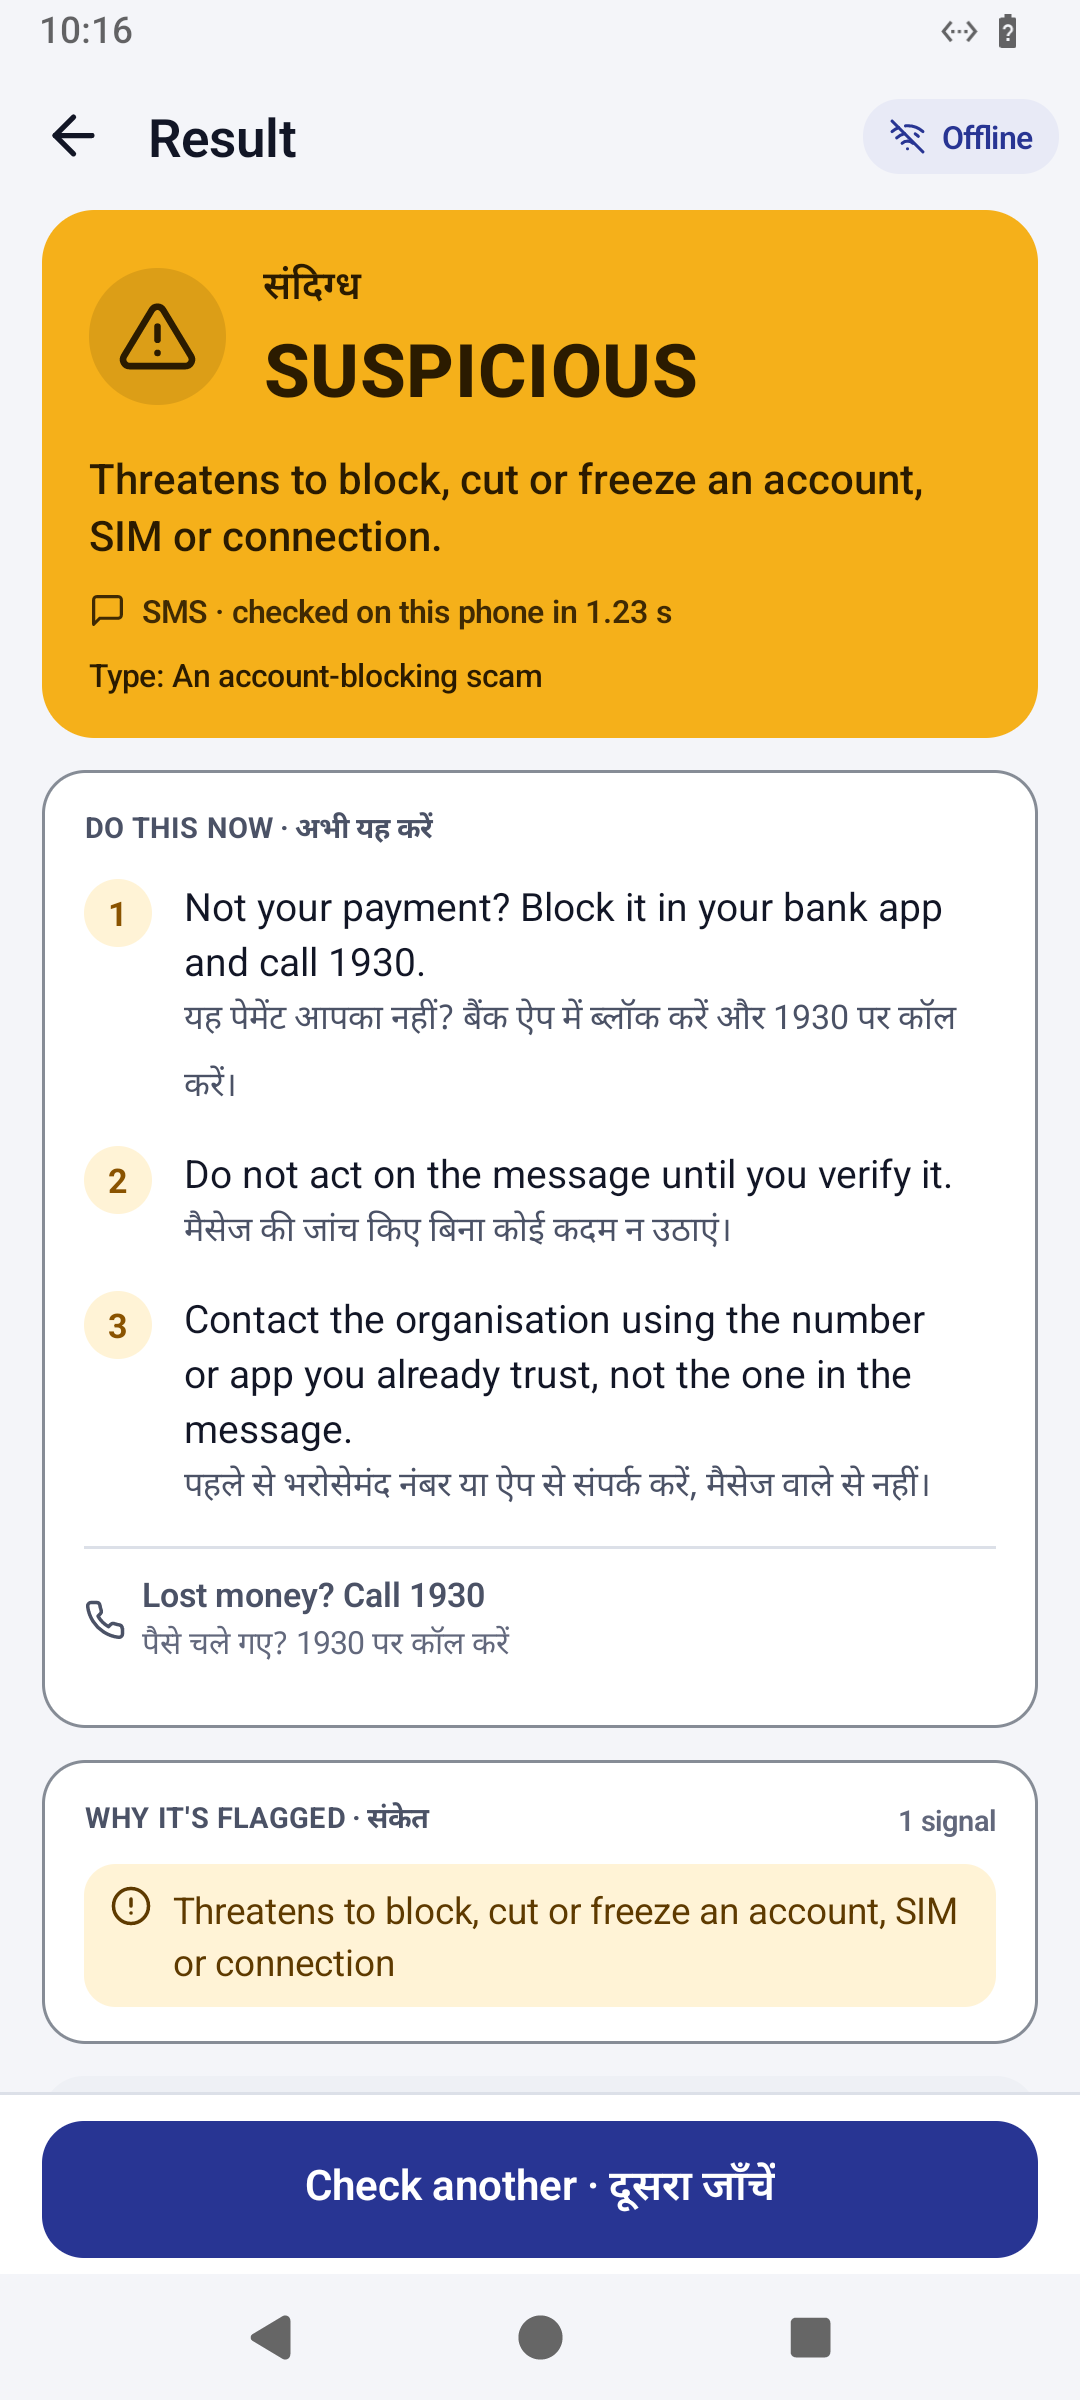
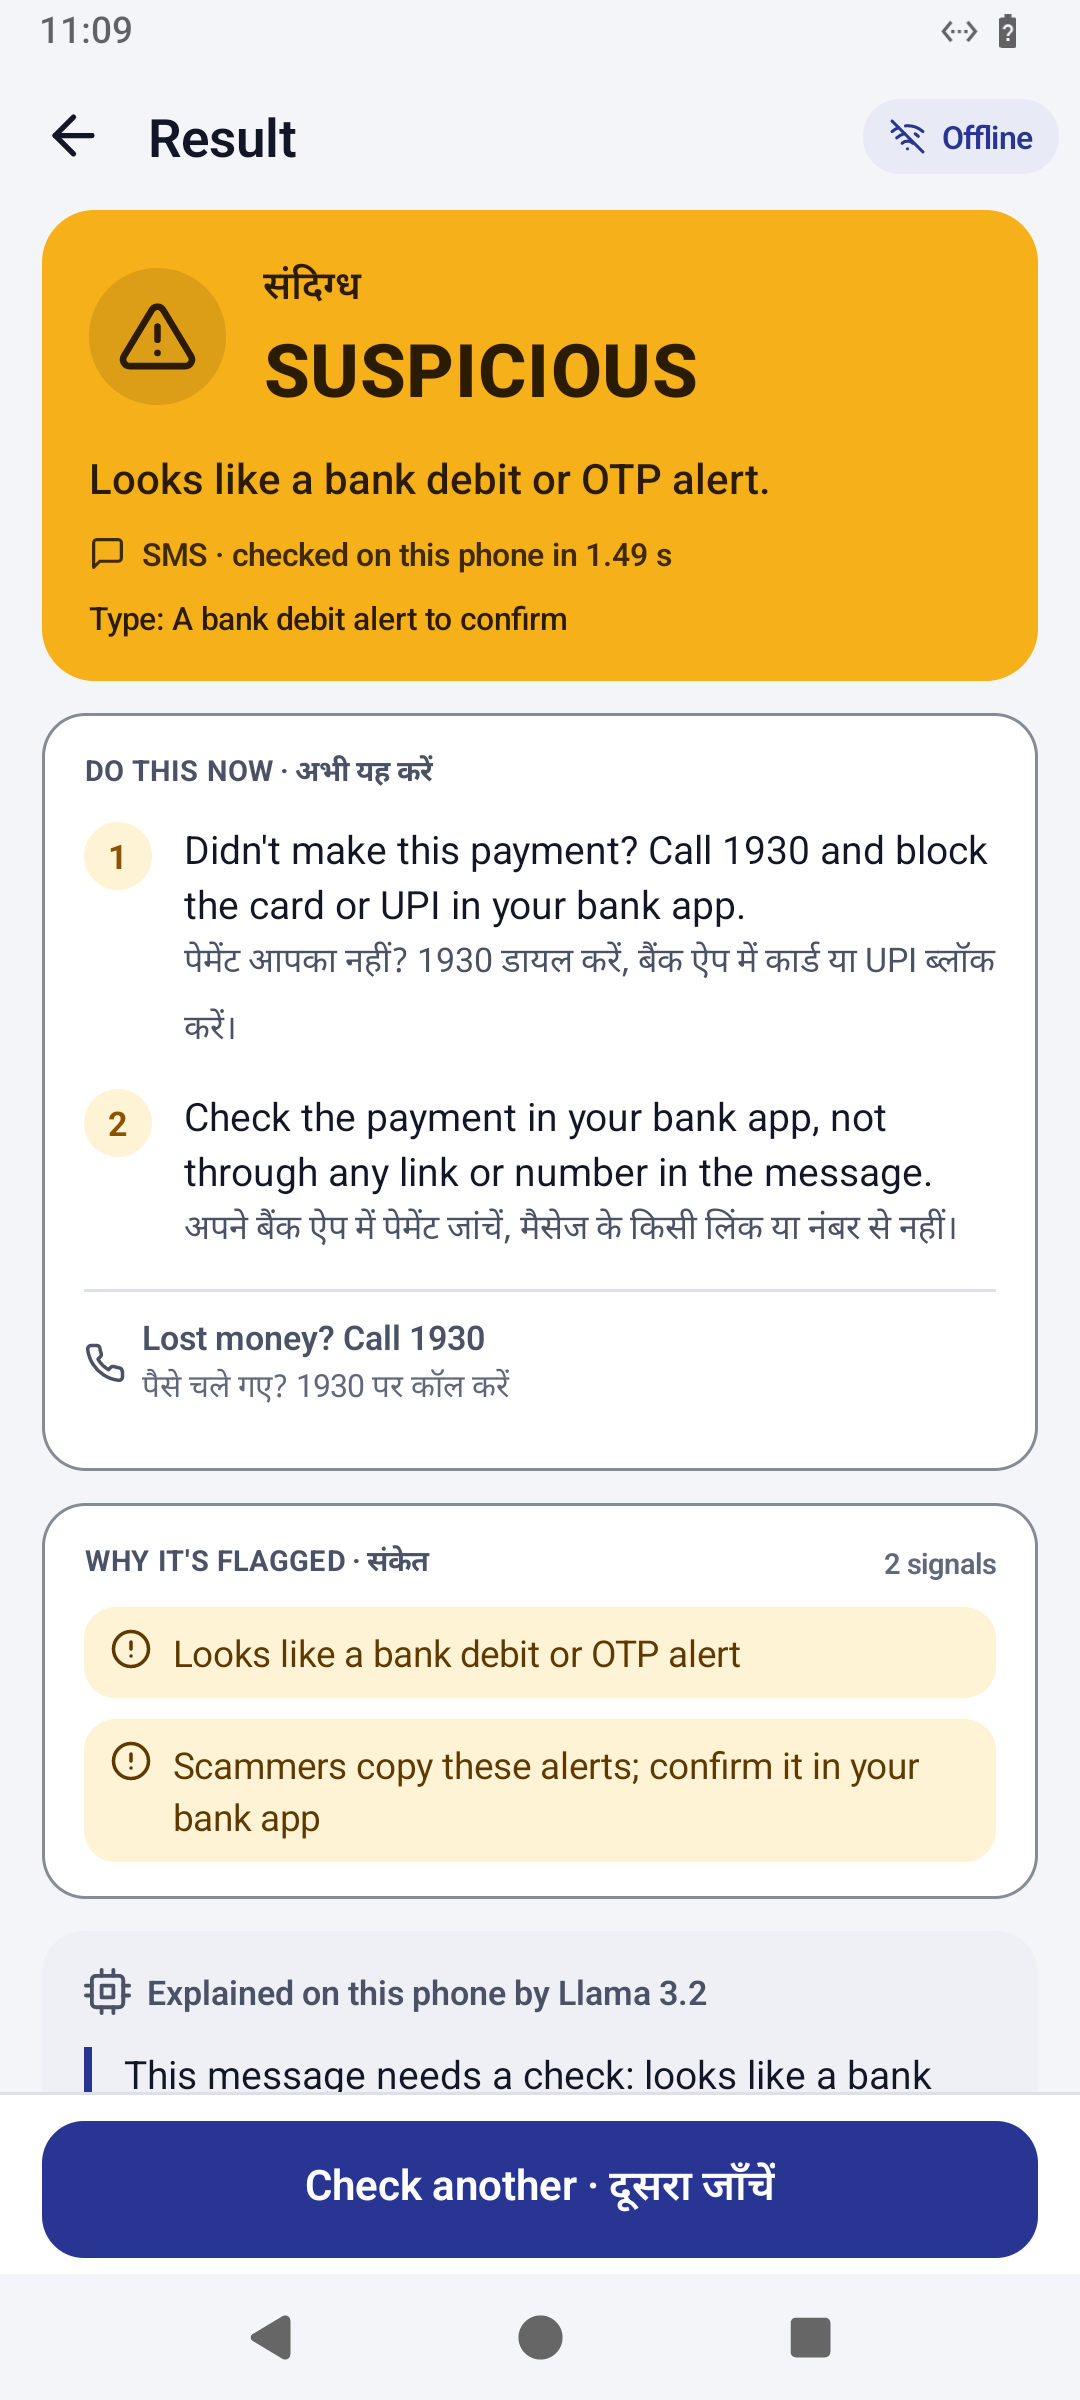
docs: final bank-alert wording and refreshed app screenshots

diff --git a/docs/phase1/report.md b/docs/phase1/report.md
@@ -76,7 +76,7 @@ The message layer combines TF-IDF and a logistic classifier with Indian-context 
 
 The app in `android/` ran the shipped detector and Llama 3.2 1B end to end on an Android 14 x86_64 emulator, using an x86_64 build and ExecuTorch Android 1.5.1. It used the same QLoRA `.pte` (SHA-256 `ab7b7ebf…`) as the Linux runner. The pictured KYC check took 274 ms in the detector. Emulator timings are labelled as x86, not Arm timings; a physical Arm phone run remains pending [S7].
 
-The result places the Hindi and English verdict first, followed by numbered scam-specific vetted steps with Hindi lines reviewed by Gemini 4 Neon. For scam messages and links before loss, “Report on Sanchar Saathi Chakshu” is primary and “Lost money? Call 1930” secondary; 1930 is primary when money is already gone, and cybercrime.gov.in is used for sextortion or extortion. Evidence follows, then the Llama card warns “AI-written and can be wrong. Follow the steps above.” On-device stats are collapsed by default. A genuine-looking bank debit alert is SUSPICIOUS and first advises “Not your payment? Block it in your bank app and call 1930.” A rule override does not clear a message as NO RISK when the model leans scam and the message offers another contact such as a link, number, chat handle or UPI ID.
+The result places the Hindi and English verdict first, followed by numbered scam-specific vetted steps with Hindi lines reviewed by Gemini 4 Neon. For scam messages and links before loss, “Report on Sanchar Saathi Chakshu” is primary and “Lost money? Call 1930” secondary; 1930 is primary when money is already gone, and cybercrime.gov.in is used for sextortion or extortion. Evidence follows, then the Llama card warns “AI-written and can be wrong. Follow the steps above.” On-device stats are collapsed by default. A genuine-looking bank debit alert is SUSPICIOUS, described as a bank alert that scammers copy, and first advises “Didn't make this payment? Call 1930 and block the card or UPI in your bank app.” A rule override does not clear a message as NO RISK when the model leans scam and the message offers another contact such as a link, number, chat handle or UPI ID.
 
 The app declares no `INTERNET` permission. “Prove it's offline” attempts HTTPS and displays the OS refusal only for a real permission error; the screenshot shows Android's `SecurityException`. Calls and browser visits use separate apps. Model files must be staged first. Mockups used Mobbin iOS references and Figma; Gemini 4 Neon reviewed UX and India-specific safety copy, and GPT-6.1 Terra wrote the app code [S7].
 

diff --git a/docs/phase1/demo-script.md b/docs/phase1/demo-script.md
@@ -12,7 +12,7 @@ This is a production plan, not evidence of a finished recording or physical-phon
 | 1:25–1:40 | Android 14 emulator (x86_64): select KYC scam SMS and show the actual Hindi and English verdict and numbered vetted steps with Hindi lines. |
 | 1:40–1:52 | Show “Report on Sanchar Saathi Chakshu” and “Lost money? Call 1930”. Explain Chakshu is for scam messages or links before loss; 1930 is primary when money is already lost, and cybercrime.gov.in is used for sextortion or extortion. |
 | 1:52–2:05 | Scroll through evidence to the Llama card and its warning, then expand on-device stats. Point out that the displayed x86 timings are not Arm timings. |
-| 2:05–2:17 | Show the genuine-looking bank debit alert as SUSPICIOUS and its first step: “Not your payment? Block it in your bank app and call 1930.” |
+| 2:05–2:17 | Show the genuine-looking bank debit alert as SUSPICIOUS and its first step: “Didn't make this payment? Call 1930 and block the card or UPI in your bank app.” |
 | 2:17–2:40 | Select “Prove it's offline” and show the actual Android permission refusal. The app has no INTERNET permission; external dialler and browser actions use separate apps. Model files were staged beforehand. |
 | 2:40–3:00 | Summary: local detection and advisory explanations, false positives and missed scams, no live capture, and physical Arm phone testing still pending. |
 
